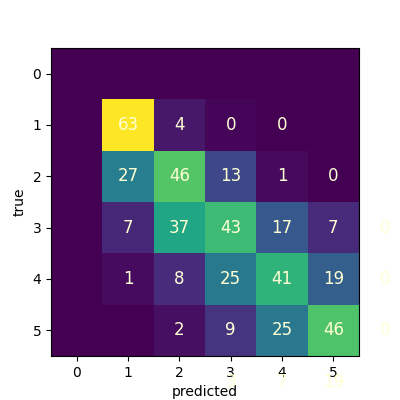
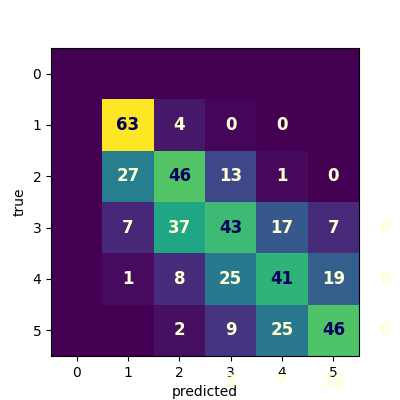
confusion

diff --git a/src/plotConfusions.py b/src/plotConfusions.py
@@ -46,10 +46,10 @@ def main(fnames):
     ax.set_ylabel('true')
     for xi, yi, txt in zip(x, y, annotations):
 
-        if xi==yi==1:
-            plt.text(xi, yi, txt, fontdict=None, color='xkcd:skyblue', fontsize = 'large', ha = 'center', va = 'center')
+        if xi==yi:
+            plt.text(xi, yi, txt, fontdict=None, color='xkcd:dark blue', fontsize = 'large', fontweight = 'heavy', ha = 'center', va = 'center')
         else:
-            plt.text(xi, yi, txt, fontdict=None, color='xkcd:eggshell', fontsize = 'large', ha = 'center', va = 'center')
+            plt.text(xi, yi, txt, fontdict=None, color='xkcd:eggshell', fontsize = 'large', fontweight = 'heavy', ha = 'center', va = 'center')
         '''
         ax.annotate(text,
                 xy=(xi, yi), xycoords='data',
